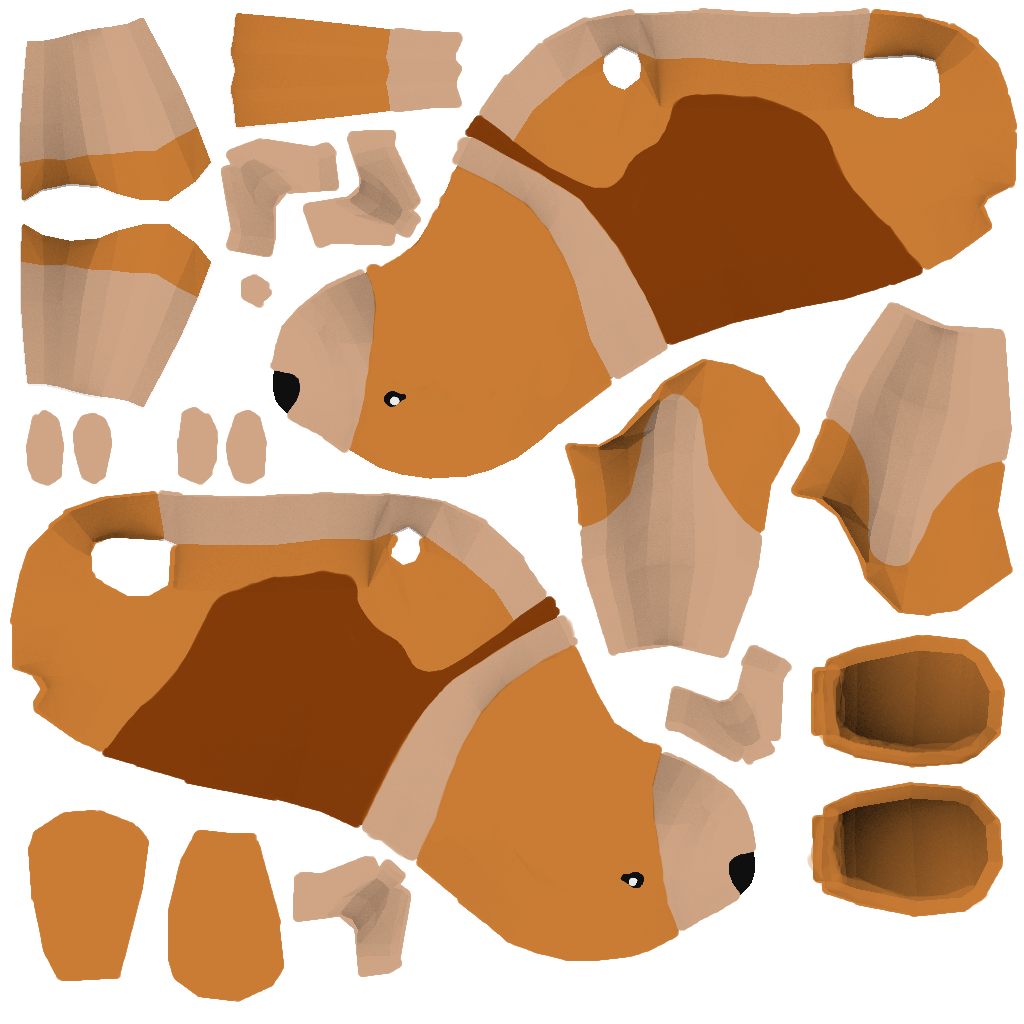
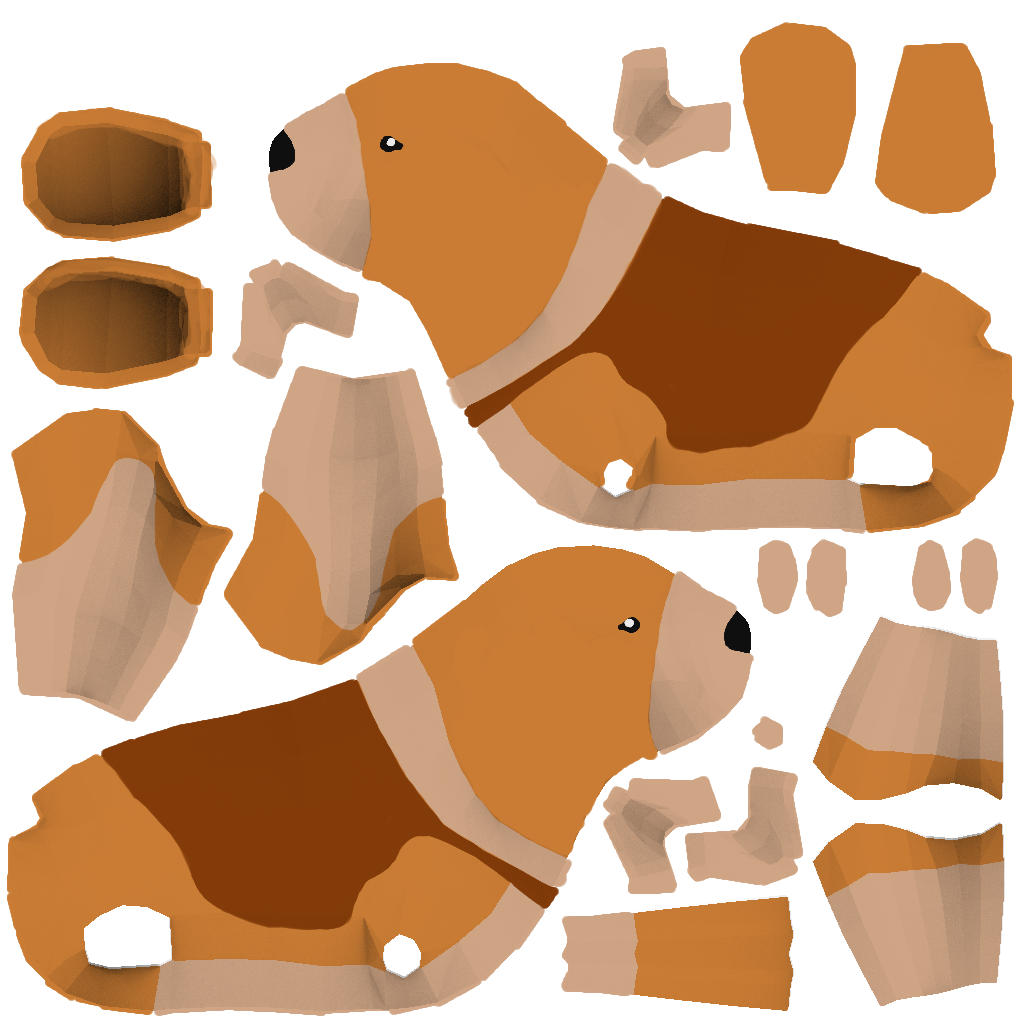
tweaks to levels and textures

diff --git a/FantasticDogBall/LevelManager.cpp b/FantasticDogBall/LevelManager.cpp
@@ -74,25 +74,91 @@ void LevelManager::load(unsigned short levelNr)
         level->add(treat1);
         auto* treat2 = new Items::DogTreat(level->pWorld, glm::vec3(0, 0, 15));
         level->add(treat2);
-        auto* treat3 = new Items::DogTreat(level->pWorld, glm::vec3(0, 3, 35));
+        auto* treat3 = new Items::DogTreat(level->pWorld, glm::vec3(0, 4, 50));
         level->add(treat3);
-        auto* treat4 = new Items::DogTreat(level->pWorld, glm::vec3(0, 3, 40));
+        auto* treat4 = new Items::DogTreat(level->pWorld, glm::vec3(0, 4, 55));
         level->add(treat4);
-        auto* treat5 = new Items::DogTreat(level->pWorld, glm::vec3(0, 3, 45));
+        auto* treat5 = new Items::DogTreat(level->pWorld, glm::vec3(0, 4, 60));
         level->add(treat5);
 
-        auto* jumpPad = new Items::JumpPad(level->pWorld, glm::vec3(0, -1, 40), 5);
+        auto* jumpPad = new Items::JumpPad(level->pWorld, glm::vec3(0, -1, 40), 3);
         level->add(jumpPad);
 
-        auto* goal = new Items::Goal(glm::vec3(0, 4, 75));
+        auto* goal = new Items::Goal(glm::vec3(0, 3, 75));
         goal->rotate(glm::radians(90.f), {0, 1, 0});
         level->add(goal);
 
         level->finalize();
         current = level;
         Inputs::setProcessor(current);
+        break;
     }
-    break;
+    case 1: {
+        auto level = new Level(playerTemplate, 50);
+
+        Light::Directional d = {
+            glm::vec3(2, -8, -1),
+            glm::vec3(.5),
+            glm::vec3(1.3),
+            glm::vec3(1.9),
+            true
+        };
+
+        level->add(d);
+
+        level->set(new Cubemap(Globals::RESOURCES + "/cubemaps/NissiBeach"));
+        level->scene.lights.finalize();
+
+        auto ground_material = new Material::TextureMaterial(
+            new Texture::Texture(Globals::RESOURCES + "/terazzo/color.jpg"),
+            new Texture::Texture(Globals::RESOURCES + "/terazzo/normal.jpg"),
+            new Texture::Texture(.3),
+            new Texture::Texture(.5),
+            new Texture::Texture(Globals::RESOURCES + "/terazzo/shininess.jpg"),
+            1.2
+        );
+        auto physics = new Decoration::Physics(level->pWorld, nullptr, 0);
+
+        const int offset = 30;
+        const float rotation = glm::radians(20.f);
+
+        auto platform1 = new RenderObject(new Render::Plane(18, 25), ground_material, "Platform1");
+        platform1->translate({ 0, -2,  10 });
+        platform1->add(new Decoration::Physics(level->pWorld, nullptr, 0));
+        auto platform2 = new RenderObject(new Render::Plane(8, 30), ground_material, "Platform2");
+        platform2
+            ->translate({ 10,-4, offset })
+            ->rotate(rotation, { 0, 0, 1 });
+        platform2->add(new Decoration::Physics(level->pWorld, nullptr, 0));
+        auto platform3 = new RenderObject(new Render::Plane(8, 30), ground_material, "Platform3");
+        platform3
+            ->translate({ 8,-6, offset * 2 })
+            ->rotate(-rotation, { 0, 0, 1 });
+        platform3->add(new Decoration::Physics(level->pWorld, nullptr, 0)); 
+        auto platform4 = new RenderObject(new Render::Plane(18, 18), ground_material, "Platform4");
+        platform4
+            ->translate({ 10,-10, offset * 2 + 20});
+        platform4->add(new Decoration::Physics(level->pWorld, nullptr, 0));
+        auto goal = new Items::Goal({ 5, -10, offset * 2 + 20 });
+
+        level->add(platform1);
+        level->add(platform2);
+        level->add(new Items::DogTreat(level->pWorld, { 10, -3.5, 35 }));
+        level->add(new Items::DogTreat(level->pWorld, { 10, -3.5, 40 }));
+        level->add(new Items::DogTreat(level->pWorld, { 10, -3.5, 45 }));
+        level->add(platform3);
+        level->add(new Items::DogTreat(level->pWorld, { 8, -5.5, 65 }));
+        level->add(new Items::DogTreat(level->pWorld, { 8, -5.5, 70 }));
+        level->add(new Items::DogTreat(level->pWorld, { 8, -5.5, 75 }));
+        level->add(platform4);
+        level->add(goal);
+
+        level->finalize();
+        Inputs::setProcessor(level);
+        state = State::PLAYING;
+        current = level;
+        break;
+    }
     case 2: {
         auto level = new Level(playerTemplate, 50);
 
@@ -127,7 +193,7 @@ void LevelManager::load(unsigned short levelNr)
         platform1->add(new Decoration::Physics(level->pWorld, nullptr, 0));
         auto platform2 = new RenderObject(new Render::Plane(18, 25), ground_material, "Platform1");
         platform2->translate({ 0, -5,  20 });
-        platform2->add(new Decoration::Physics(level->pWorld, nullptr, 0)); 
+        platform2->add(new Decoration::Physics(level->pWorld, nullptr, 0));
         auto platform3 = new RenderObject(new Render::Plane(18, 25), ground_material, "Platform1");
         platform3->translate({ 0, -10,  10 });
         platform3->add(new Decoration::Physics(level->pWorld, nullptr, 0));
@@ -138,112 +204,22 @@ void LevelManager::load(unsigned short levelNr)
         auto goal = new Items::Goal({ 0, -15, 20 });
 
         level->add(platform1);
+        level->add(new Items::DogTreat(level->pWorld, { -5, 1, 5 }));
+        level->add(new Items::DogTreat(level->pWorld, { 5, 1, 5 }));
+        level->add(new Items::DogTreat(level->pWorld, { 5, 1, 15 }));
+        level->add(new Items::DogTreat(level->pWorld, { -5, 1, 15 }));
         level->add(platform2);
+        level->add(new Items::DogTreat(level->pWorld, { -5, -4, 15 }));
+        level->add(new Items::DogTreat(level->pWorld, { 5, -4, 15 }));
+        level->add(new Items::DogTreat(level->pWorld, { 5, -4, 25 }));
+        level->add(new Items::DogTreat(level->pWorld, { -5, -4, 25 }));
         level->add(platform3);
+        level->add(new Items::DogTreat(level->pWorld, { -5, -9, 5 }));
+        level->add(new Items::DogTreat(level->pWorld, { 5, -9, 5 }));
+        level->add(new Items::DogTreat(level->pWorld, { 5, -9, 15 }));
+        level->add(new Items::DogTreat(level->pWorld, { -5, -9, 15 }));
         level->add(platform4);
         level->add(goal);
-
-        level->finalize();
-        Inputs::setProcessor(level);
-        state = State::PLAYING;
-        current = level;
-        break;
-    }
-    case 1: {
-        auto level = new Level(playerTemplate, 50);
-
-        Light::Directional d = {
-            glm::vec3(2, -8, -1),
-            glm::vec3(.5),
-            glm::vec3(1.3),
-            glm::vec3(1.9),
-            true
-        };
-
-        level->add(d);
-
-        level->set(new Cubemap(Globals::RESOURCES + "/cubemaps/NissiBeach"));
-        level->scene.lights.finalize();
-
-        auto ground_material = new Material::TextureMaterial(
-            new Texture::Texture(Globals::RESOURCES + "/terazzo/color.jpg"),
-            new Texture::Texture(Globals::RESOURCES + "/terazzo/normal.jpg"),
-            new Texture::Texture(.3),
-            new Texture::Texture(.5),
-            new Texture::Texture(Globals::RESOURCES + "/terazzo/shininess.jpg"),
-            1.2
-        );
-        auto physics = new Decoration::Physics(level->pWorld, nullptr, 0);
-
-        const int offset = 30;
-        const float rotation = glm::radians(10.f);
-
-        auto platform1 = new RenderObject(new Render::Plane(18, 25), ground_material, "Platform1");
-        platform1->translate({ 0, -2,  10 });
-        platform1->add(new Decoration::Physics(level->pWorld, nullptr, 0));
-        auto platform2 = new RenderObject(new Render::Plane(8, 30), ground_material, "Platform2");
-        platform2
-            ->rotate(rotation, { 0, 0, 1 })
-            ->translate({ 10,-4, offset });
-        platform2->add(new Decoration::Physics(level->pWorld, nullptr, 0));
-        auto platform3 = new RenderObject(new Render::Plane(8, 30), ground_material, "Platform3");
-        platform3
-            ->rotate(-rotation, { 0, 0, 1 })
-            ->translate({ 10,-6, offset * 2 });
-        platform3->add(new Decoration::Physics(level->pWorld, nullptr, 0)); 
-        auto platform4 = new RenderObject(new Render::Plane(18, 18), ground_material, "Platform4");
-        platform4
-            ->translate({ 10,-10, offset * 2 + 20});
-        platform4->add(new Decoration::Physics(level->pWorld, nullptr, 0));
-        auto goal = new Items::Goal({ 5, -10, offset * 2 + 20 });
-
-        level->add(platform1);
-        level->add(platform2);
-        level->add(platform3);
-        level->add(platform4);
-        level->add(goal);
-
-        level->finalize();
-        Inputs::setProcessor(level);
-        state = State::PLAYING;
-        current = level;
-        break;
-    }
-    case 10: {
-        auto level = new Level(playerTemplate, 50);
-
-        Light::Directional d = {
-            glm::vec3(2, -8, -1),
-            glm::vec3(.5),
-            glm::vec3(1.3),
-            glm::vec3(1.9),
-            true
-        };
-
-        level->add(d);
-
-        level->scene.lights.finalize();
-        level->set(new Cubemap(Globals::RESOURCES + "/cubemaps/Yokohama2"));
-
-        auto slide = new RenderObject(
-            Render::Mesh::fromFile(Globals::RESOURCES + "/Slide.robj")[0],
-            new Material::TextureMaterial(
-                new Texture::Texture(Globals::RESOURCES + "/terracotta/color.jpg"),
-                new Texture::Texture(Globals::RESOURCES + "/terracotta/normal.jpg"),
-                new Texture::Texture(.5),
-                new Texture::Texture(.4),
-                new Texture::Texture(Globals::RESOURCES + "/terracotta/shininess.jpg"),
-                1.4f
-            ),
-            "Slide"
-        );
-
-        slide->add(new Decoration::Physics(level->pWorld, nullptr, 0));
-
-        auto goal = new Items::Goal({ 0, 33, -7.8 });
-
-        level->add(goal);
-        level->add(slide);
 
         level->finalize();
         Inputs::setProcessor(level);

diff --git a/FantasticDogBall/Player.cpp b/FantasticDogBall/Player.cpp
@@ -104,9 +104,9 @@ void Player::init(btDynamicsWorld* pWorld)
 	transform = glm::mat4(1);
 	dog->transform = transform;
 
-	auto* ball_mat = new Material::StaticMaterial({ .8, .8, .9, .76 }, { .32 }, { .8 }, 7.4, .2);
+	auto* ball_mat = new Material::StaticMaterial({ .8, .8, .9, .76 }, { .32 }, { .8 }, 35, .1);
 	ball = new RenderObject{ new Render::Sphere(1, 16, 32), ball_mat, "PlayerBall", false };
-	auto* physics = new Decoration::Physics(pWorld, new btSphereShape(1), 10);
+	auto* physics = new Decoration::Physics(pWorld, new btSphereShape(1), 25);
 	ball->add(physics);
 
 	ball->transform = transform;

diff --git a/FantasticDogBall/Texture.cpp b/FantasticDogBall/Texture.cpp
@@ -84,8 +84,8 @@ void Texture::Texture::load(std::string filePath_)
 	defined = true;
 	int comp;
 	filePath = filePath_;
-	data = stbi_load(filePath_.c_str(), &width, &height, &nrChannels, STBI_rgb_alpha);
 	stbi_set_flip_vertically_on_load(true);
+	data = stbi_load(filePath_.c_str(), &width, &height, &nrChannels, STBI_rgb_alpha);
 
 	if (data == nullptr)
 	{

diff --git a/FantasticDogBall/Utils.cpp b/FantasticDogBall/Utils.cpp
@@ -17,7 +17,7 @@ unsigned Globals::NUM_SHADOW_CUBEMAPS = 0;
 unsigned Globals::NUM_SHADOW_MAPS = 0;
 unsigned Globals::WINDOW_WIDTH = 1920;
 unsigned Globals::WINDOW_HEIGHT = 1080;
-unsigned Globals::NUM_LEVELS = 2;
+unsigned Globals::NUM_LEVELS = 5;
 unsigned Globals::FOV = 45;
 
 float Globals::MAX_PLAYER_SPEED = 8.8f;

diff --git a/FantasticDogBall/RenderObject.cpp b/FantasticDogBall/RenderObject.cpp
@@ -203,7 +203,7 @@ void Decoration::Physics::init(RenderObject* object)
 
 	pBody = new btRigidBody(rigidBodyCI);
 	pBody->setUserPointer(object);
-	pBody->setRollingFriction(.2);
+	pBody->setRollingFriction(.01);
 	pBody->setDeactivationTime(0);
 	pBody->setSleepingThresholds(1.f, 1.f);
 
